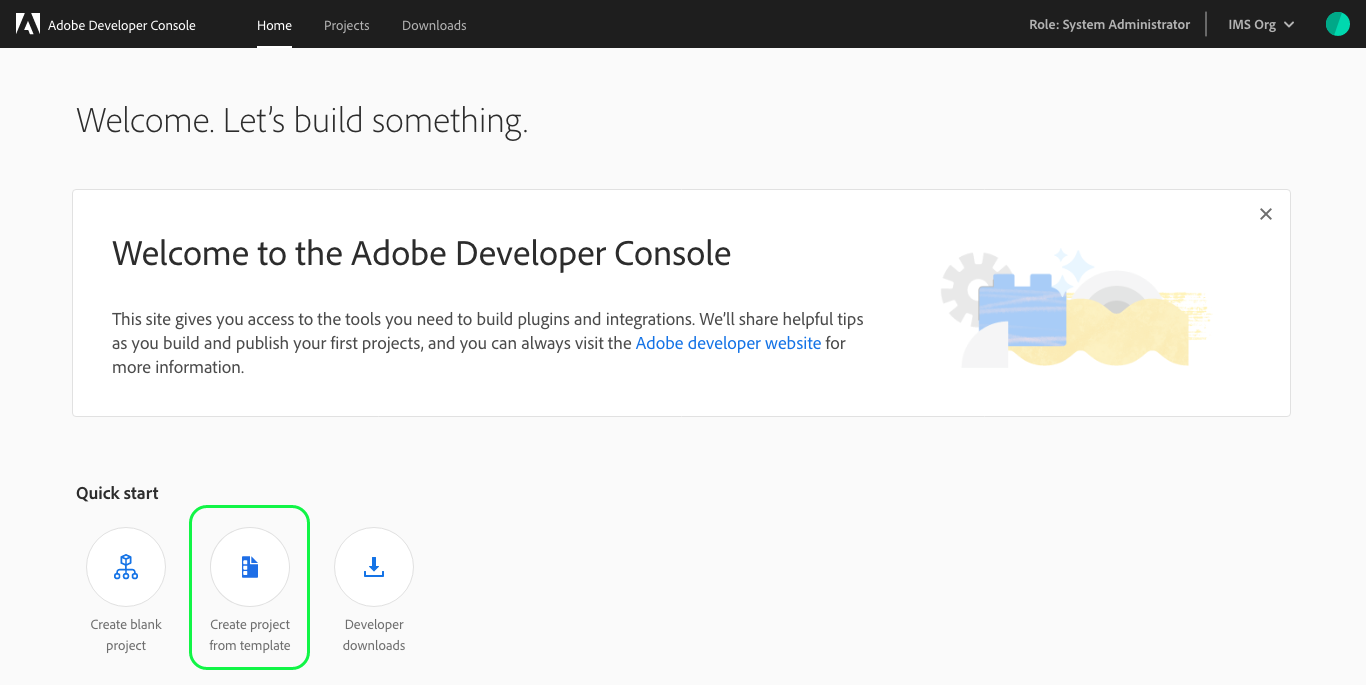
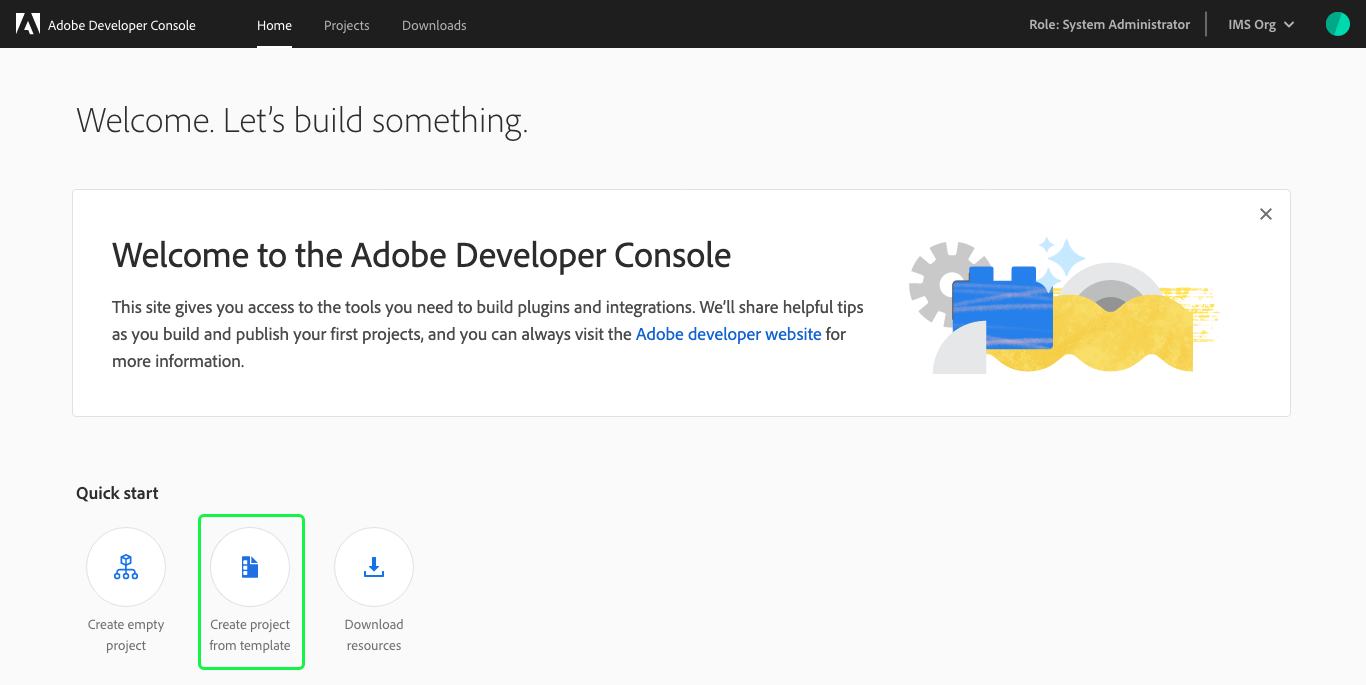
Update "blank project" to "empty project"

diff --git a/projects-empty.md b/projects-empty.md
@@ -1,0 +1,39 @@
+# Create an empty project
+
+This guide provides step-by-step instructions for creating an empty project in Adobe Developer Console.
+
+> **Note:** If you were hoping to create a project using a template, please follow the steps in the [templated project guide](template-project.md).
+
+## Select organization
+
+Before creating a project, ensure that you are working in the correct organization. To view and select an organization, use the organization switcher located in the top-right corner of the console.
+
+![Organization switcher in console](images/switch-organizations.png)
+
+## Quick start
+
+Next, select **Create empty project** from the _Quick start_ menu on the _Home_ screen.
+
+> **Note:** When accessing console using a personal organization, only two Quick start options appear: "Create empty project" and "Developer downloads".
+
+![](images/create-empty-project.png)
+
+## Project overview
+
+After selecting to create an empty project, the _Project Overview_ screen opens, showing the details of your project and an alert confirming that a project has been created successfully.
+
+A project name is automatically generated for your project ("Project 12" in the top-left corner of the screen) and is an internal name that can be edited using the **Edit project** button.
+
+> **Note:** When creating multiple projects within an organization or working collaboratively with other developers, it is best practice to choose a project name that is descriptive and makes it easy to distinguish your project from others.
+
+The _Project Overview_ screen also includes the last modified date of the project, the project created date, and the project description.
+
+![](images/empty-project-created.png)
+
+## Next Steps
+
+With the empty project created, you can start using Adobe services, adding APIs, adding events, and enabling Runtime using the **Add to Project** button on the left-side of the screen or the quick action buttons provided in the center of the screen.
+
+To learn more about working with services including steps for adding APIs, events, and runtime, please begin by reading the [services overview](services.md).
+
+![](images/empty-project-add-to-project.png)

diff --git a/projects.md b/projects.md
@@ -10,11 +10,11 @@ Use the organization switcher to view the organizations to which you belong and 
 
 ![Organization switcher on the console home screen.](images/switch-organizations.png)
 
-## Blank projects
+## Empty projects
 
-Think of a blank project as an open canvas or "blank slate" from which you can add events, runtime, plugins, APIs and more to create custom applications.
+Think of an empty project as an open canvas or "blank slate" from which you can add events, runtime, plugins, APIs and more to create custom applications.
 
-To get started, follow the steps provided in the guide for [creating a blank project](projects-blank.md).
+To get started, follow the steps provided in the guide for [creating an empty project](projects-empty.md).
 
 ## Templated projects
 

diff --git a/getting-started.md b/getting-started.md
@@ -26,7 +26,7 @@ Navigating between organizations is easily done using the organization switcher 
 
 ### Quick start
 
-The _Home_ screen also provides "quick start" links to help you get started with some of the most common console actions. _Quick start_ links are available for: creating a blank project, creating a project using a template, and navigating to developer downloads.
+The _Home_ screen also provides "quick start" links to help you get started with some of the most common console actions. _Quick start_ links are available for: creating an empty project, creating a project using a template, and navigating to developer downloads.
 
 ![](images/quick-start.png)
 

diff --git a/plugin-project.md b/plugin-project.md
@@ -4,9 +4,9 @@ This guide provides step-by-step instructions for creating an XD Plugin in Adobe
 
 > **Note:** With the latest release of Adobe Developer Console, XD Plugins are now created as part of a project. XD Plugin Projects are only able to be made using your personal organization. This workflow is not available from within an enterprise organization.
 
-## Create a blank project
+## Create an empty project
 
-From within your personal organization, select the quick start button to **Create blank project**.
+From within your personal organization, select the quick start button to **Create an empty project**.
 
 ![](images/personal-org.png)
 

diff --git a/projects-template.md b/projects-template.md
@@ -4,7 +4,7 @@ In order to streamline the creation of projects, Adobe Developer Console provide
 
 This guide outlines the steps necessary to create a project using a template. 
 
-If you do not wish to use a template and would like to create a blank project, please follow the steps in the [blank project guide](blank-project.md).
+> **Note:** If you do not wish to use a template and would like to create an empty project, please follow the steps in the [empty project guide](projects-empty.md).
 
 ## Select organization
 
